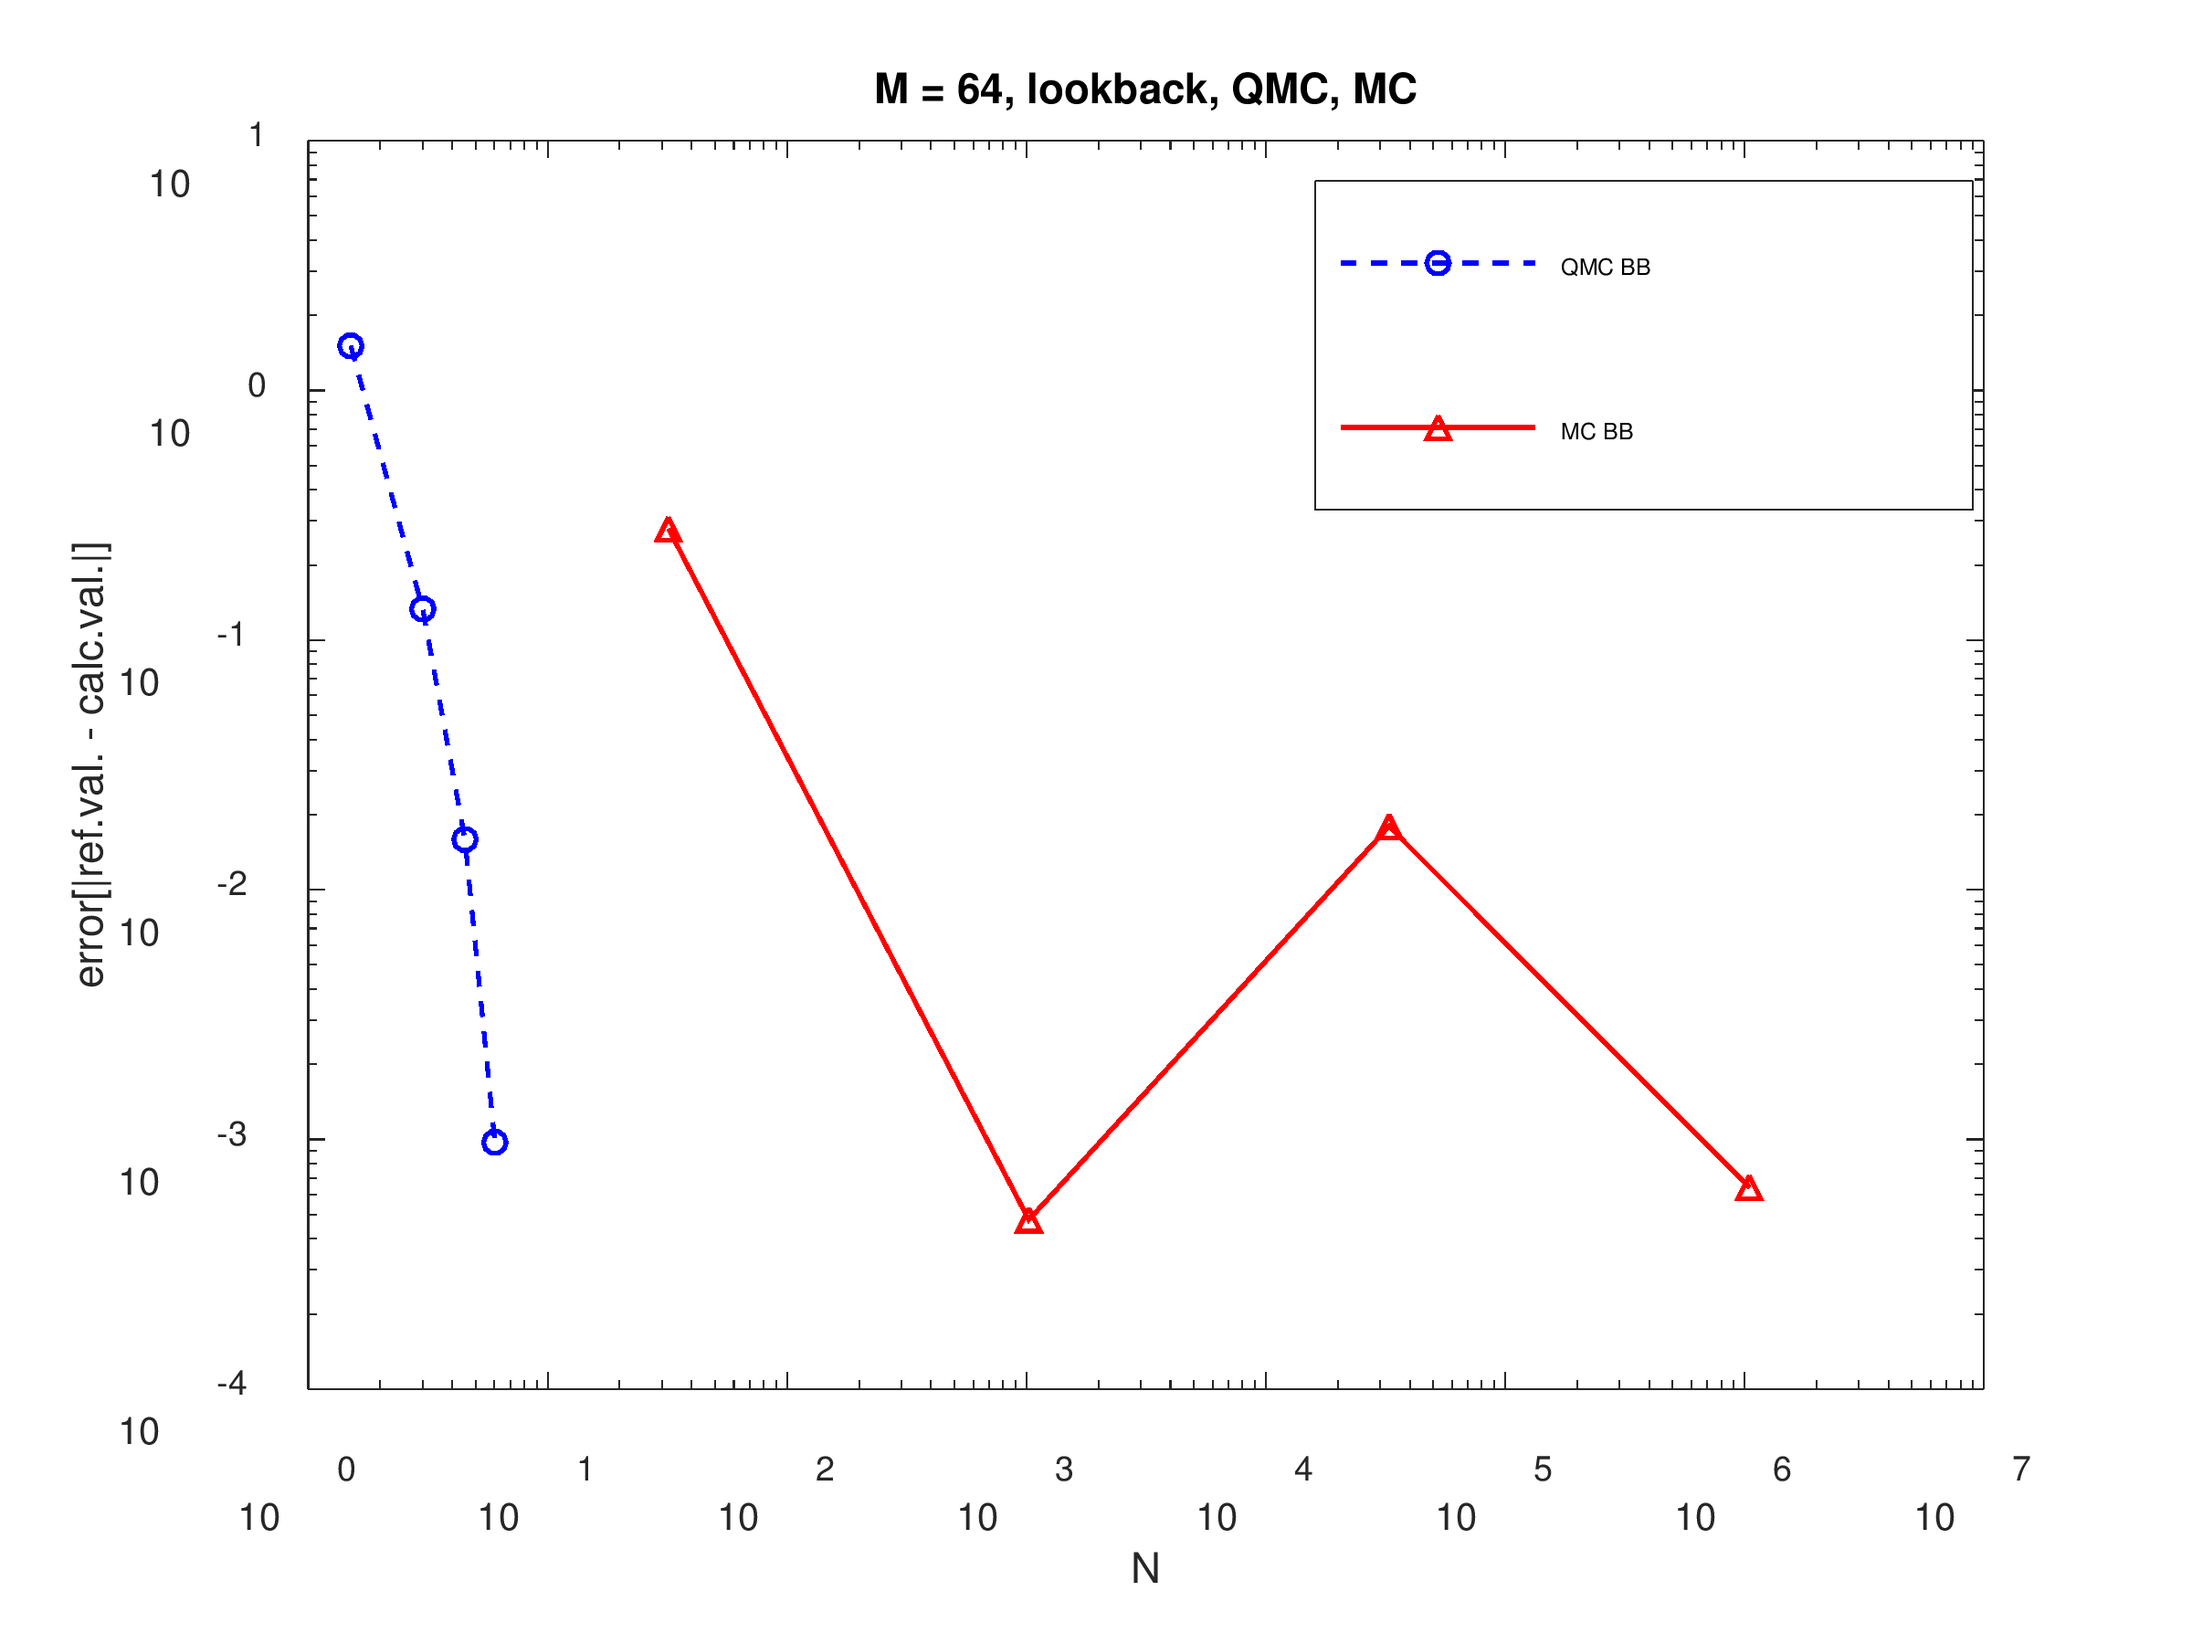
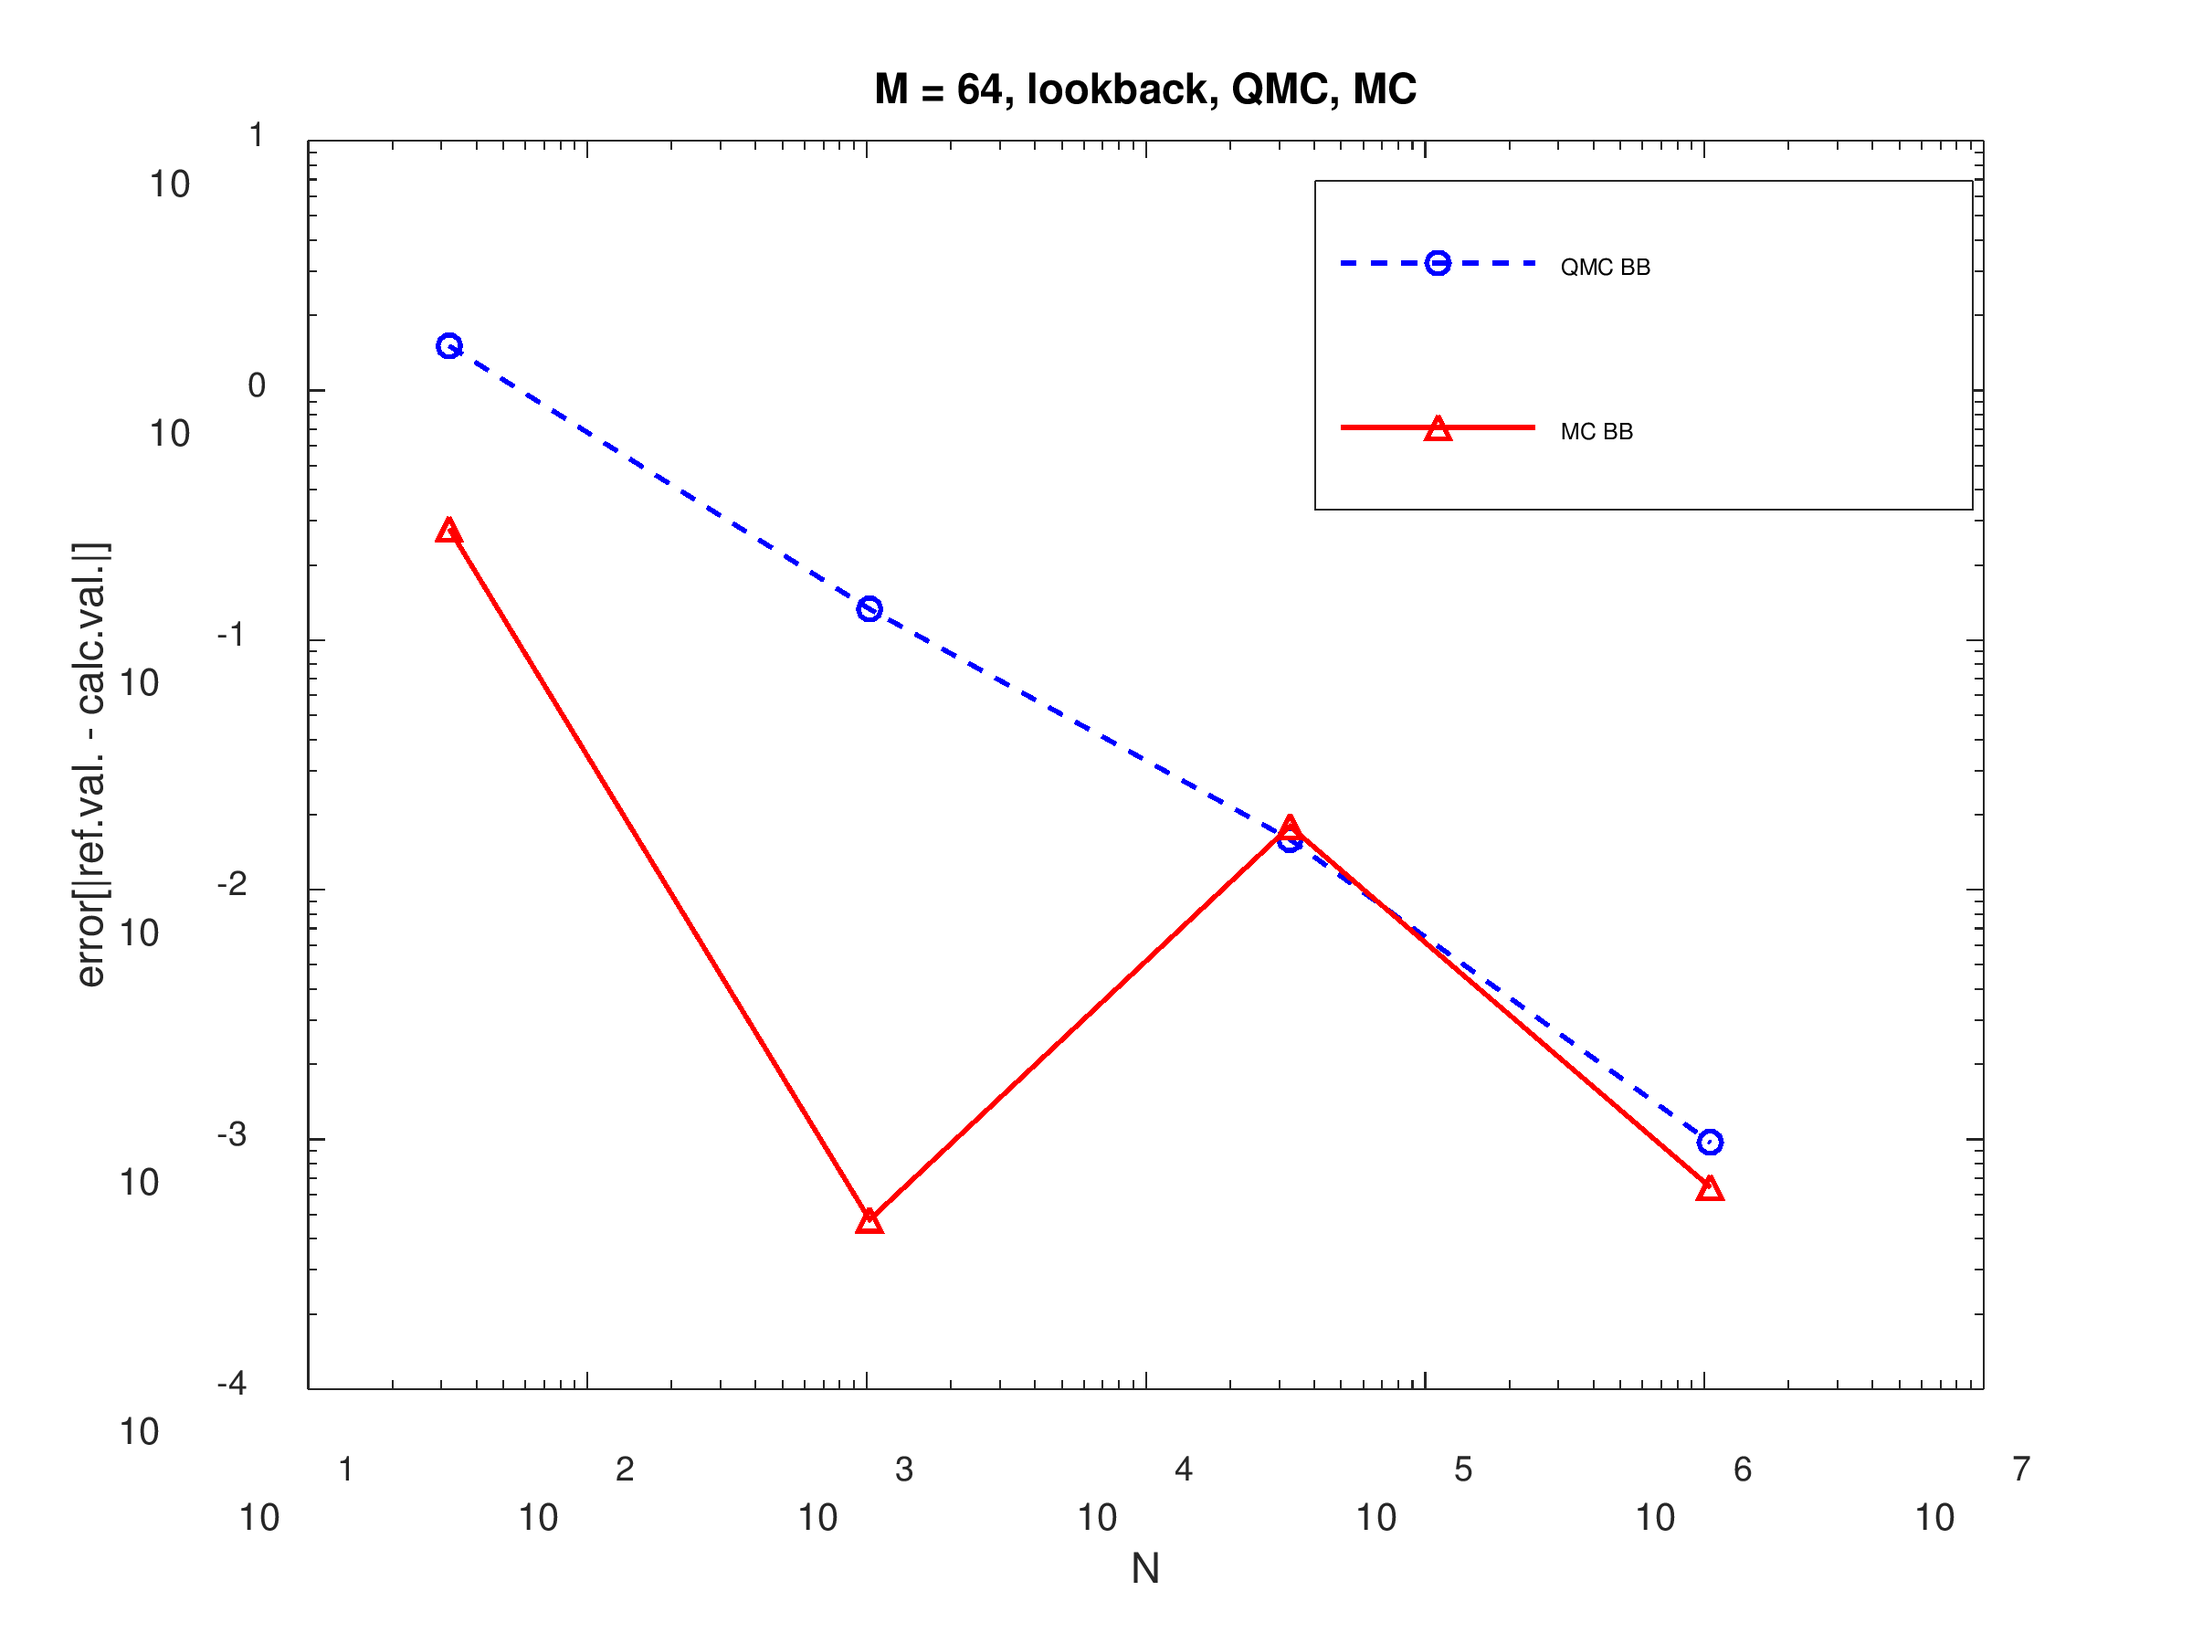
update

diff --git a/Final/worksheet_3/main.cpp b/Final/worksheet_3/main.cpp
@@ -187,22 +187,19 @@ int main(int argc, char* argv[])
 	//////////////////////////////////////////////////////////
     //////////////////////////Task_3//////////////////////////
     //////////////////////////////////////////////////////////
-
+/*
     Task_3::s0 = 10.;
     Task_3::r = 0.1;
     Task_3::T = 1.;
     Task_3::K = 10.;
     Task_3::sigma = 0.25;
 
-	 //Convergence plot for different N has to be inserted! 
+    //Convergence plot for different N has to be inserted!
+    //std::cout << discrete_geometric_average_exact(Task_3::s0, Task_3::r, Task_3::T, Task_3::M, Task_3::K, Task_3::sigma) << std::endl;
+    //std::cout << discrete_geometric_average_simulation(rng, Task_3::s0, Task_3::r, Task_3::T, Task_3::M, Task_3::K, Task_3::sigma, N) << std::endl;
+    //std::cout << continuous_geometric_average_exact(Task_3::s0, Task_3::r, Task_3::T, Task_3::K, Task_3::sigma) << std::endl;
 
-//	std::cout << discrete_geometric_average_exact(Task_3::s0, Task_3::r, Task_3::T, Task_3::M, Task_3::K, Task_3::sigma) << std::endl;
-
-//	std::cout << discrete_geometric_average_simulation(rng, Task_3::s0, Task_3::r, Task_3::T, Task_3::M, Task_3::K, Task_3::sigma, N) << std::endl;
-
-//	std::cout << continuous_geometric_average_exact(Task_3::s0, Task_3::r, Task_3::T, Task_3::K, Task_3::sigma) << std::endl;
-/*
-  Task_3::M = 10;
+    Task_3::M = 10;
 	double calculated_result;
 	double exact_result;
 	double absolute_error;
@@ -615,7 +612,7 @@ int main(int argc, char* argv[])
 
 
 */
-/*
+
 	//////////////////////////////////////////////////////////
 	//////////////////////////Task_15/////////////////////////
 	//////////////////////////////////////////////////////////
@@ -628,7 +625,13 @@ int main(int argc, char* argv[])
 	Task_15::mu = 0.1;
 	Task_15::K = 0;
     Task_15::nodes = new std::vector<std::vector<double> >(Task_15::dimension_M);
+    if (Task_15::nodes==NULL) {
+        std::cout<<"Bad allocation Task 15"<<std::endl;
+    }
 	Task_15::weights = new std::vector<std::vector<double> >(Task_15::dimension_M);
+    if (Task_15::weights==NULL) {
+        std::cout<<"Bad allocation Task 15"<<std::endl;
+    }
     Task_15::write_in_file = false;
     Task_15::use_trap_rule = false;
     Task_15::use_bb = true;
@@ -642,19 +645,25 @@ int main(int argc, char* argv[])
 		}
 
     Task_15::exact_value = discrete_geometric_average_exact(Task_15::S0, Task_15::mu, Task_15::T, Task_15::dimension_M, Task_15::K, Task_15::sigma);
+    
 	for (int l = 1;l <= Task_15::max_level;l++) {
+        
 		Task_15::N = pow(2,l)*pow(l,Task_15::dimension_M-1);
-
-		myfile << Task_15::N << "	";
+        myfile << Task_15::N << "	";
         
         Task_15::simulation_result_rw = integrate_with_sparse_grid(asian_option_call_integrand,Task_15::dimension_M,l,Task_15::nodes, Task_15::weights,Task_15::write_in_file,Task_15::use_trap_rule,Task_15::S0, Task_15::K,Task_15::sigma,Task_15::mu,Task_15::dimension_M,Task_15::T,false);
         std::cout<<Task_15::simulation_result_rw<<std::endl;
+        
 		Task_15::simulation_result_bb = integrate_with_sparse_grid(asian_option_call_integrand,Task_15::dimension_M,l,Task_15::nodes, Task_15::weights,Task_15::write_in_file,Task_15::use_trap_rule,Task_15::S0, Task_15::K,Task_15::sigma,Task_15::mu,Task_15::dimension_M,Task_15::T,Task_15::use_bb);
-        std::cout<<Task_15::simulation_result_bb<<std::endl;
+        
+        
         myfile << fabs(Task_15::simulation_result_rw-Task_15::exact_value) << "	";
 		myfile << fabs(Task_15::simulation_result_bb-Task_15::exact_value) << std::endl;
 
 	}
+    
+    free(Task_15::nodes);
+    free(Task_15::weights);
 	myfile.close();
 
 
@@ -662,7 +671,7 @@ int main(int argc, char* argv[])
 //////////////////////////////////////////////////////////
 //////////////////////////Task_16/////////////////////////
 //////////////////////////////////////////////////////////
-    
+/*
     Task_16::S0 = 10;
     Task_16::T =1;
     Task_16::dimension_M = 8;
@@ -805,7 +814,7 @@ int main(int argc, char* argv[])
 //////////////////////////Task_17/////////////////////////
 //////////////////////////////////////////////////////////
 
-
+/*
     Task_17::S0 = 10;
     Task_17::T =1;
     Task_17::dimension_M = 64;
@@ -874,7 +883,7 @@ int main(int argc, char* argv[])
 
     myfile.close();
 
- 
+*/
     free(rng);
 
 	return 0;

diff --git a/Final/worksheet_4/main.cpp b/Final/worksheet_4/main.cpp
@@ -158,7 +158,7 @@ int main(int argc, char* argv[])
 	//////////////////////////////////////////////////////////
     //////////////////////////Task_1//////////////////////////
     //////////////////////////////////////////////////////////
-/*
+
 	Task_1::plot_numbers = 100;
 	Task_1::s0 = 10.0;
 	Task_1::r = 0.02;
@@ -473,7 +473,7 @@ int main(int argc, char* argv[])
 	free(Task_5::x);
 
 	myfile.close();
-*/
+
 	//////////////////////////////////////////////////////////
     //////////////////////////Task_6//////////////////////////
     //////////////////////////////////////////////////////////
@@ -576,7 +576,7 @@ int main(int argc, char* argv[])
 	//////////////////////////////////////////////////////////
     //////////////////////////Task_7//////////////////////////
     //////////////////////////////////////////////////////////
-/*
+
     Task_7::s0 = 10;
     Task_7::T =1;
     Task_7::M = 64;
@@ -714,7 +714,7 @@ int main(int argc, char* argv[])
         
     }
     myfile.close();
-*/
+
 	//////////////////////////////////////////////////////////
     //////////////////////////Task_8//////////////////////////
     //////////////////////////////////////////////////////////

diff --git a/Final/header_files/multivariate_integration.cpp b/Final/header_files/multivariate_integration.cpp
@@ -287,8 +287,9 @@ double asian_option_call_integrand(std::vector<double>* x,double S0,double K, do
         delta_t = T/M;
         w[0] = 0.0;
         for (int i = 1; i <= M; i++) {
-            result *= S0*exp((mu-0.5*sigma*sigma)*i*delta_t+sigma*(w[i-1]+sqrt(delta_t)*normal_inverse_cdf((*x)[i-1])));
             w[i] = w[i-1]+sqrt(delta_t)*normal_inverse_cdf((*x)[i-1]);
+            result *= S0*exp((mu-0.5*sigma*sigma)*i*delta_t+sigma*(w[i]));
+            
         }
         w.resize(M);
     }
@@ -299,9 +300,11 @@ double asian_option_call_integrand(std::vector<double>* x,double S0,double K, do
 
         for (int i = 1; i <= max_level; i++) {
             delta_t = T/(pow(2,(double)i));
+            
 			for (int j = 0; j < pow(2,i); j+=2) {
+                
                 helper = 0.5*(w[j]+w[j+1])+sqrt(delta_t/2.)*normal_inverse_cdf((*x)[count]);
-                result =result * S0*exp((mu-0.5*sigma*sigma)*(j+1)*delta_t+sigma*(helper));
+                result *= S0*exp((mu-0.5*sigma*sigma)*(j+1)*delta_t+sigma*(helper));
                 w.emplace(w.begin()+j+1, helper);
                 count++;
 

diff --git a/Final/header_files/multivariate_integration.hpp b/Final/header_files/multivariate_integration.hpp
@@ -141,7 +141,7 @@ double integrate_with_sparse_grid(double (*multifunction_to_integrate)(std::vect
 				clenshaw_curtis_weights(&(*weights)[i], (*k)[i]);
 				clenshaw_curtis_nodes(&(*nodes)[i], (*k)[i]);
 			}
-		}
+        };
 
 			
         

diff --git a/Final/worksheet_4/matlab_files/task6_error.m b/Final/worksheet_4/matlab_files/task6_error.m
@@ -9,7 +9,7 @@ x = A(:,2);
 y = A(:,3);
 
 
-loglog(log10(n), x,'bo--','Linewidth',2);
+loglog(n, x,'bo--','Linewidth',2);
 
 hold on
 
